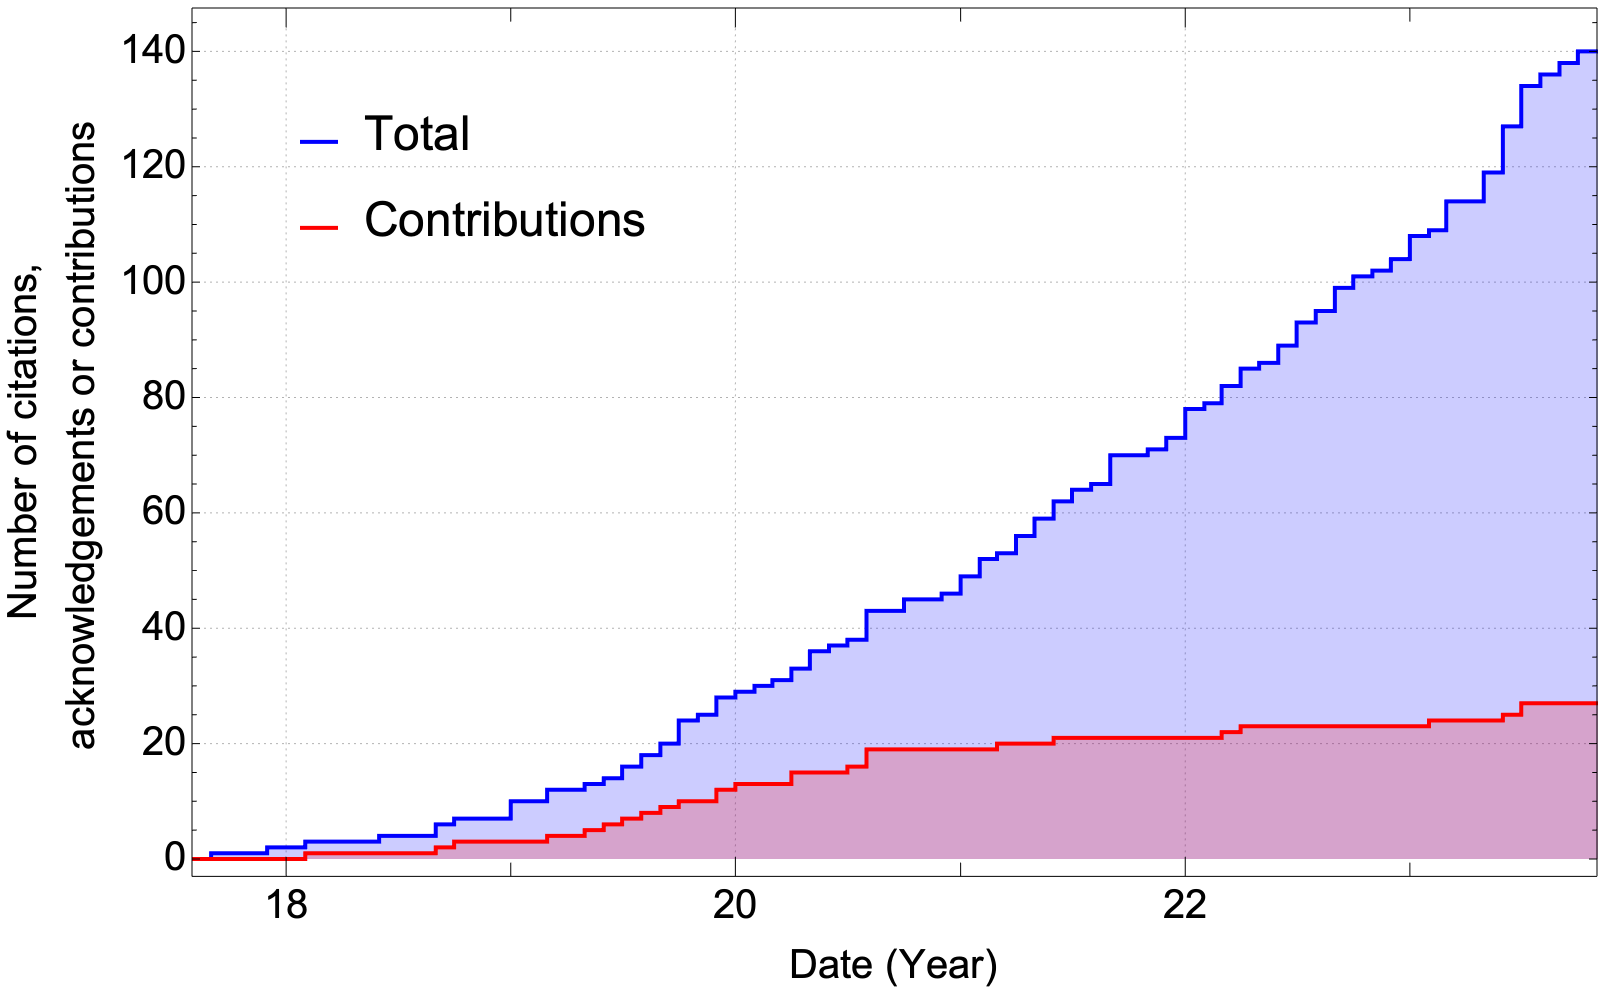
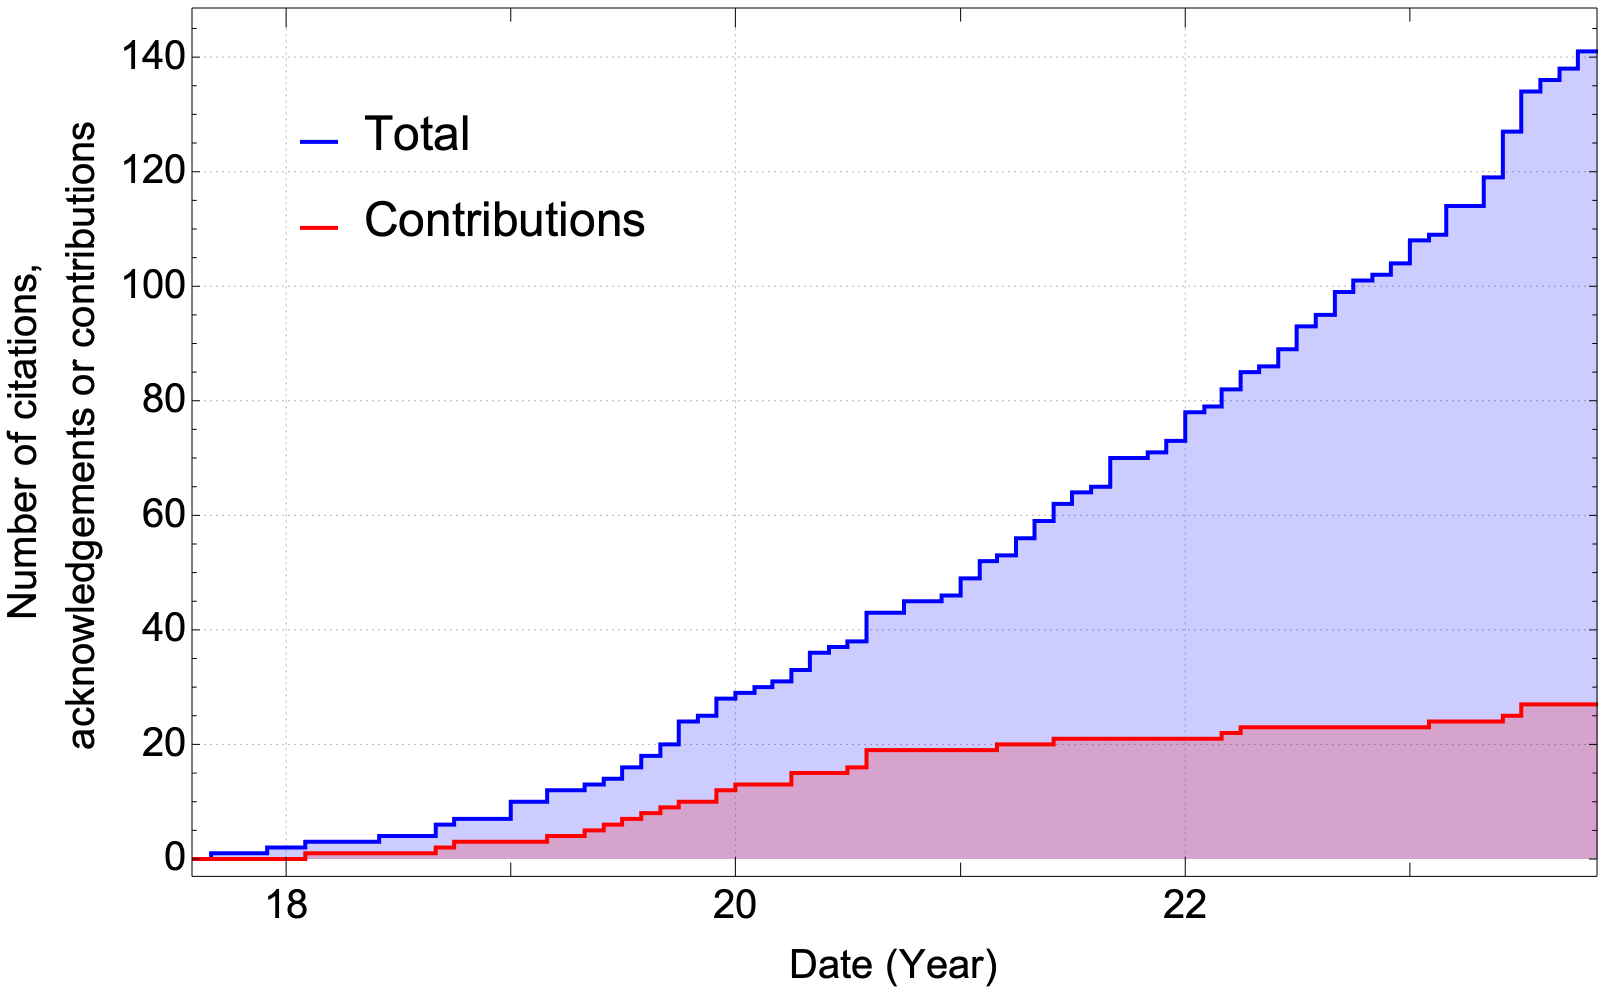
Add paper the cites the Toolkit

diff --git a/users.md b/users.md
@@ -19,6 +19,8 @@ The graph below show the accumulated citations to the Toolkit over time. The blu
 
 Below is a list of research papers that have used or extended the Toolkit. Papers that have contributed code or data to the Toolkit have a (*) after them.
 
+141\. "Accuracy Requirements: Assessing the Importance of First Post-Adiabatic Terms for Small-Mass-Ratio Binaries", Ollie Burke, Gabriel Andres Piovano, Niels Warburton, Phillip Lynch, Lorenzo Speri, Chris Kavanagh, Barry Wardell, Adam Pound, Leanne Durkan, Jeremy Miller, [arXiv:2310.08927](https://arxiv.org/abs/2310.08927)
+
 140\. "Extreme mass-ratio inspiral and waveforms for a spinning body into a Kerr black hole via osculating geodesics and near-identity transformations", Lisa V. Drummond, Philip Lynch, Alexandra G. Hanselman, Devin R. Becker, Scott A. Hughes, [arXiv:2310.08438](https://arxiv.org/abs/2310.08438)
 
 139\. "Mapping between black-hole perturbation theory and numerical relativity: gravitational-wave energy flux", Tousif Islam, [arXiv:2310.05743](https://arxiv.org/abs/2310.05743)
